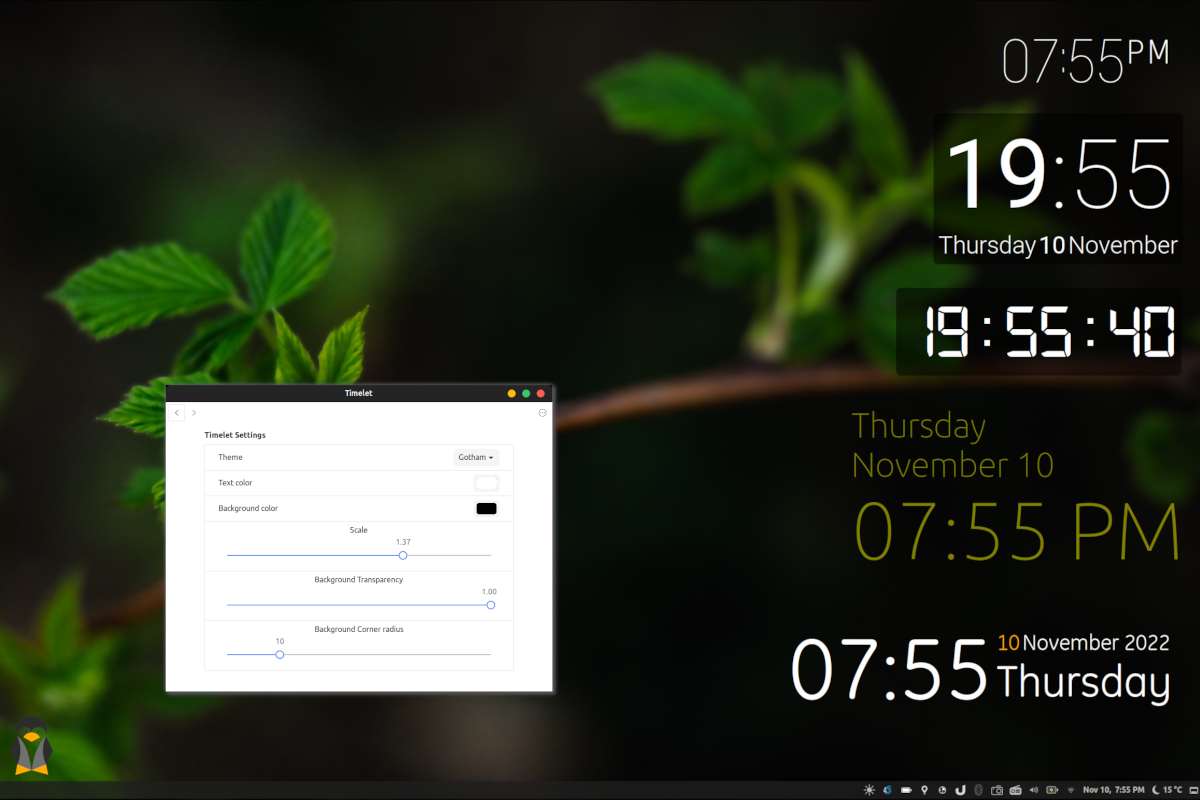
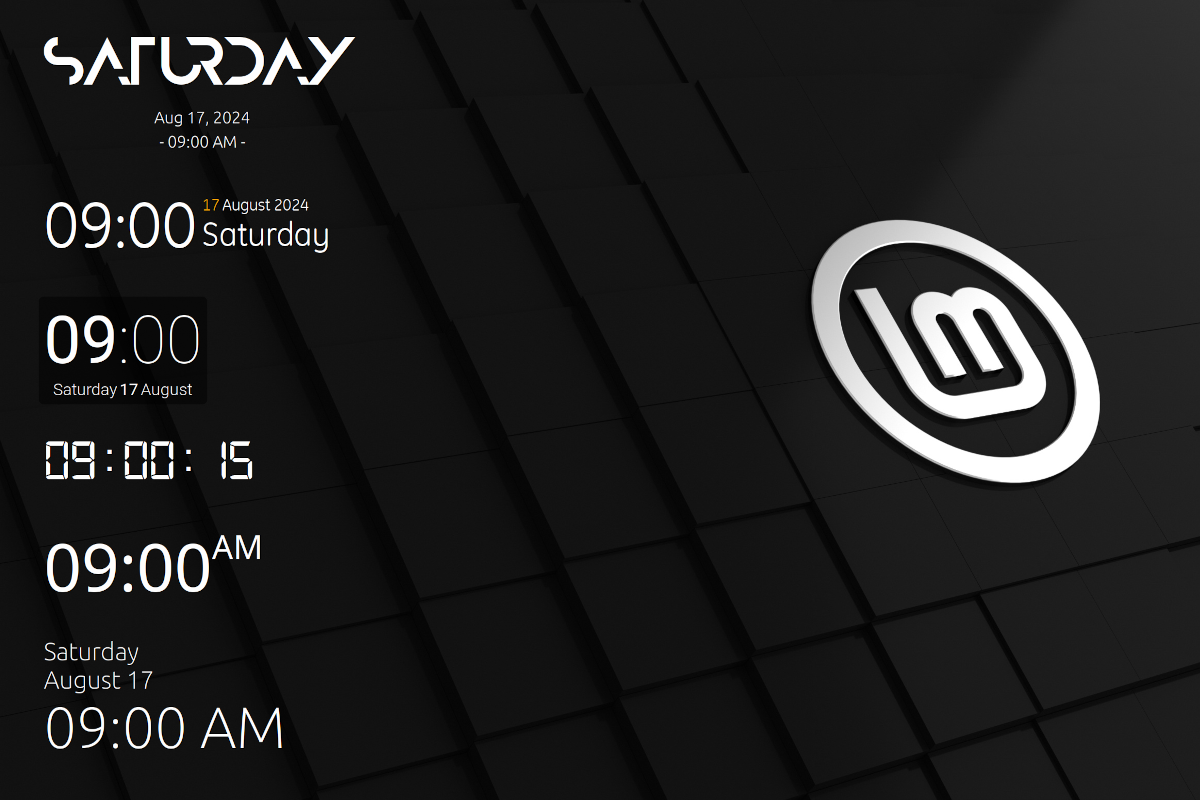
timelet@linuxedo.com: Add Modern theme (#1259)

diff --git a/timelet@linuxedo.com/files/timelet@linuxedo.com/themes/modern.js b/timelet@linuxedo.com/files/timelet@linuxedo.com/themes/modern.js
@@ -1,0 +1,60 @@
+/*
+* A themeable desklet that shows the time.
+*
+* Copyright (C) 2024  Gobinath
+*
+* This program is free software: you can redistribute it and/or modify
+* it under the terms of the GNU General Public License as published by
+* the Free Software Foundation, either version 3 of the License, or
+* (at your option) any later version.
+* This program is distributed in the hope that it will be useful,
+* but WITHOUT ANY WARRANTY; without even the implied warranty of
+* MERCHANTABILITY or FITNESS FOR A PARTICULAR PURPOSE.  See the
+* GNU General Public License for more details.
+*
+* You should have received a copy of the GNU General Public License
+* along with this program.  If not, see <http:*www.gnu.org/licenses/>.
+*/
+
+// Import dependencies
+const St = imports.gi.St;
+const GLib = imports.gi.GLib;
+imports.searchPath.unshift(GLib.get_home_dir() + "/.local/share/cinnamon/desklets/timelet@linuxedo.com/themes");
+const Theme = imports.theme.Theme;
+
+/**
+ * Modern theme class.
+ */
+var ModernTheme = class ModernTheme extends Theme {
+
+    constructor(config) {
+        super(config);
+    }
+
+    getWidget() {
+        this._clockContainer = new St.BoxLayout({ vertical: true });
+
+        this._weekday = this.createLabel("Anurati", 72, "center");
+        this._date = this.createLabel("Ubuntu", 20, "left");
+        this._time = this.createLabel("Ubuntu", 20, "right");
+
+        this._weekday.style += "font-weight: 300;";
+        this._date.style += "font-weight: 300; padding-top: 10px;";
+        this._time.style += "font-weight: 300; padding-top: 10px;";
+
+        this._clockContainer.add(this._weekday, { x_fill: false, x_align: St.Align.MIDDLE });
+        this._clockContainer.add(this._date, { x_fill: false, x_align: St.Align.MIDDLE });
+        this._clockContainer.add(this._time, { x_fill: false, x_align: St.Align.MIDDLE });
+        return this._clockContainer;
+    }
+
+    setDateTime(date, locale) {
+        let time = this.to2Digit(this.is24H() ? date.getHours() : this.to12Hours(date.getHours())) + ":" + this.to2Digit(date.getMinutes());
+        if (!this.is24H()) {
+            time += " " + this.toPeriod(date.getHours());
+        }
+        this._weekday.set_text(this.formatDateTime(date, locale, { weekday: "long" }).toUpperCase());
+        this._date.set_text(this.formatDateTime(date, locale, { day: "2-digit", month: "short", year: "numeric" }));
+        this._time.set_text("- " + time + " -");
+    }
+}

diff --git a/timelet@linuxedo.com/files/timelet@linuxedo.com/themes/themes.js b/timelet@linuxedo.com/files/timelet@linuxedo.com/themes/themes.js
@@ -24,6 +24,7 @@ const FlairTheme = imports.flair.FlairTheme;
 const GothamTheme = imports.gotham.GothamTheme;
 const JellyTheme = imports.jelly.JellyTheme;
 const MetroTheme = imports.metro.MetroTheme;
+const ModernTheme = imports.modern.ModernTheme;
 
 /**
  * A factory class acts as a theme register.
@@ -41,7 +42,7 @@ var Themes = class Themes {
      * @returns Return the list of registered theme names.
      */
     static getThemeNames() {
-        return ["Digital", "Flair", "Gotham", "Jelly", "Metro"];
+        return ["Digital", "Flair", "Gotham", "Jelly", "Metro", "Modern"];
     }
 
     /**
@@ -61,6 +62,8 @@ var Themes = class Themes {
             return new JellyTheme(config);
         } else if (themeName == "Metro") {
             return new MetroTheme(config);
+        } else if (themeName == "Modern") {
+            return new ModernTheme(config);
         }
     }
 }

diff --git a/timelet@linuxedo.com/README.md b/timelet@linuxedo.com/README.md
@@ -19,6 +19,7 @@ Install the fonts required by each theme for the best result.
 - Gotham: [GE Inspira](https://fontsgeek.com/fonts/GE-Inspira-Regular)
 - Jelly: [Roboto](https://fonts.google.com/specimen/Roboto)
 - Metro: [Ubuntu](https://fonts.google.com/specimen/Ubuntu)
+- Modern: [Anurati](https://font.download/font/anurati), [Ubuntu](https://fonts.google.com/specimen/Ubuntu)
 
 ## Development
 
